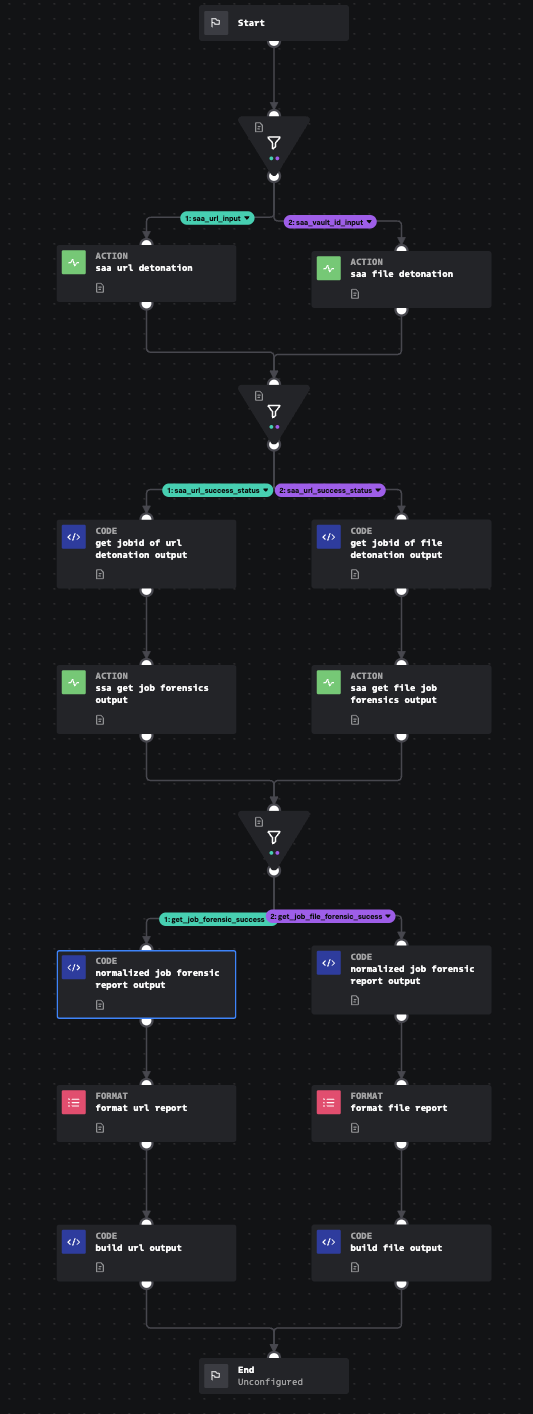
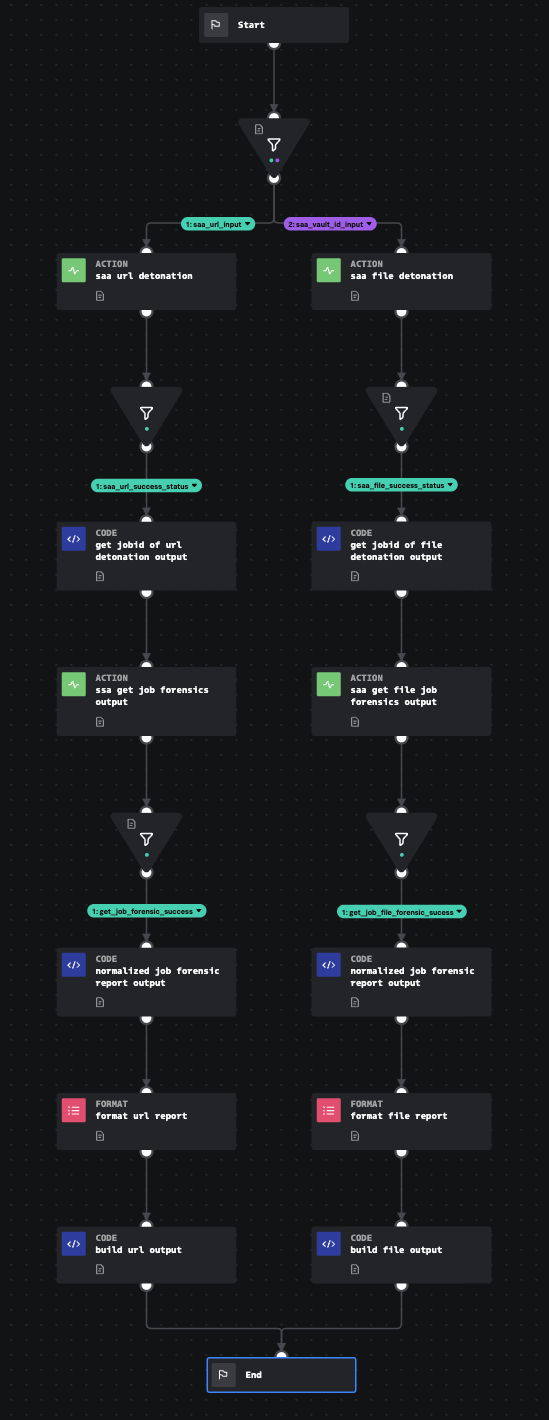
saa_dynamic_analysis_playbooks

Changed region(s): [[0.0901, 0.0311, 0.8405, 0.9335], [0.3602, 0.9335, 0.6604, 0.9958], [0.3602, 0.0, 0.4803, 0.0311]]

diff --git a/playbooks/SAA_Dynamic_Analysis.py b/playbooks/SAA_Dynamic_Analysis.py
@@ -83,18 +83,7 @@ def saa_url_detonation(action=None, success=None, container=None, results=None, 
     ## Custom Code End
     ################################################################################
 
-    phantom.act("detonate url", parameters=parameters, name="saa_url_detonation", assets=["splunk attack analyzer"], callback=join_url_detonation_status_filter)
-
-    return
-
-
-@phantom.playbook_block()
-def join_url_detonation_status_filter(action=None, success=None, container=None, results=None, handle=None, filtered_artifacts=None, filtered_results=None, custom_function=None, **kwargs):
-    phantom.debug("join_url_detonation_status_filter() called")
-
-    if phantom.completed(action_names=["saa_url_detonation", "saa_file_detonation"]):
-        # call connected block "url_detonation_status_filter"
-        url_detonation_status_filter(container=container, handle=handle)
+    phantom.act("detonate url", parameters=parameters, name="saa_url_detonation", assets=["splunk attack analyzer"], callback=filter_5)
 
     return
 
@@ -111,25 +100,13 @@ def url_detonation_status_filter(action=None, success=None, container=None, resu
     matched_artifacts_1, matched_results_1 = phantom.condition(
         container=container,
         conditions=[
-            ["saa_url_detonation:action_result.status", "==", "success"]
+            ["saa_file_detonation:action_result.status", "==", "success"]
         ],
         name="url_detonation_status_filter:condition_1")
 
     # call connected blocks if filtered artifacts or results
     if matched_artifacts_1 or matched_results_1:
-        get_jobid_of_url_detonation_output(action=action, success=success, container=container, results=results, handle=handle, filtered_artifacts=matched_artifacts_1, filtered_results=matched_results_1)
-
-    # collect filtered artifact ids and results for 'if' condition 2
-    matched_artifacts_2, matched_results_2 = phantom.condition(
-        container=container,
-        conditions=[
-            ["saa_file_detonation:action_result.status", "==", "success"]
-        ],
-        name="url_detonation_status_filter:condition_2")
-
-    # call connected blocks if filtered artifacts or results
-    if matched_artifacts_2 or matched_results_2:
-        get_jobid_of_file_detonation_output(action=action, success=success, container=container, results=results, handle=handle, filtered_artifacts=matched_artifacts_2, filtered_results=matched_results_2)
+        get_jobid_of_file_detonation_output(action=action, success=success, container=container, results=results, handle=handle, filtered_artifacts=matched_artifacts_1, filtered_results=matched_results_1)
 
     return
 
@@ -207,18 +184,7 @@ def ssa_get_job_forensics_output(action=None, success=None, container=None, resu
     ## Custom Code End
     ################################################################################
 
-    phantom.act("get job forensics", parameters=parameters, name="ssa_get_job_forensics_output", assets=["splunk attack analyzer"], callback=join_get_jobid_forensic_filter)
-
-    return
-
-
-@phantom.playbook_block()
-def join_get_jobid_forensic_filter(action=None, success=None, container=None, results=None, handle=None, filtered_artifacts=None, filtered_results=None, custom_function=None, **kwargs):
-    phantom.debug("join_get_jobid_forensic_filter() called")
-
-    if phantom.completed(action_names=["ssa_get_job_forensics_output", "saa_get_file_job_forensics_output"]):
-        # call connected block "get_jobid_forensic_filter"
-        get_jobid_forensic_filter(container=container, handle=handle)
+    phantom.act("get job forensics", parameters=parameters, name="ssa_get_job_forensics_output", assets=["splunk attack analyzer"], callback=get_jobid_forensic_filter)
 
     return
 
@@ -242,18 +208,6 @@ def get_jobid_forensic_filter(action=None, success=None, container=None, results
     # call connected blocks if filtered artifacts or results
     if matched_artifacts_1 or matched_results_1:
         normalized_job_forensic_report_output(action=action, success=success, container=container, results=results, handle=handle, filtered_artifacts=matched_artifacts_1, filtered_results=matched_results_1)
-
-    # collect filtered artifact ids and results for 'if' condition 2
-    matched_artifacts_2, matched_results_2 = phantom.condition(
-        container=container,
-        conditions=[
-            ["saa_get_file_job_forensics_output:action_result.status", "==", "success"]
-        ],
-        name="get_jobid_forensic_filter:condition_2")
-
-    # call connected blocks if filtered artifacts or results
-    if matched_artifacts_2 or matched_results_2:
-        normalized_job_forensic_report_output_1(action=action, success=success, container=container, results=results, handle=handle, filtered_artifacts=matched_artifacts_2, filtered_results=matched_results_2)
 
     return
 
@@ -421,7 +375,7 @@ def format_url_report(action=None, success=None, container=None, results=None, h
     ################################################################################
 
     # Write your custom code here...
-    #phantom.debug(phantom.format(container=container, template=template, parameters=parameters, name="format_report_url"))
+    phantom.debug(phantom.format(container=container, template=template, parameters=parameters, name="format_report_url"))
     ################################################################################
     ## Custom Code End
     ################################################################################
@@ -530,7 +484,7 @@ def saa_file_detonation(action=None, success=None, container=None, results=None,
     ## Custom Code End
     ################################################################################
 
-    phantom.act("detonate file", parameters=parameters, name="saa_file_detonation", assets=["splunk attack analyzer"], callback=join_url_detonation_status_filter)
+    phantom.act("detonate file", parameters=parameters, name="saa_file_detonation", assets=["splunk attack analyzer"], callback=url_detonation_status_filter)
 
     return
 
@@ -608,7 +562,7 @@ def saa_get_file_job_forensics_output(action=None, success=None, container=None,
     ## Custom Code End
     ################################################################################
 
-    phantom.act("get job forensics", parameters=parameters, name="saa_get_file_job_forensics_output", assets=["splunk attack analyzer"], callback=join_get_jobid_forensic_filter)
+    phantom.act("get job forensics", parameters=parameters, name="saa_get_file_job_forensics_output", assets=["splunk attack analyzer"], callback=filter_6)
 
     return
 
@@ -776,7 +730,7 @@ def format_file_report(action=None, success=None, container=None, results=None, 
     ################################################################################
 
     # Write your custom code here...
-    #phantom.debug(phantom.format(container=container, template=template, parameters=parameters, name="format_report_file"))
+    phantom.debug(phantom.format(container=container, template=template, parameters=parameters, name="format_report_file"))
     ################################################################################
     ## Custom Code End
     ################################################################################
@@ -839,6 +793,44 @@ def build_file_output(action=None, success=None, container=None, results=None, h
     ################################################################################
 
     phantom.save_run_data(key="build_file_output:observable_array", value=json.dumps(build_file_output__observable_array))
+
+    return
+
+
+@phantom.playbook_block()
+def filter_5(action=None, success=None, container=None, results=None, handle=None, filtered_artifacts=None, filtered_results=None, custom_function=None, **kwargs):
+    phantom.debug("filter_5() called")
+
+    # collect filtered artifact ids and results for 'if' condition 1
+    matched_artifacts_1, matched_results_1 = phantom.condition(
+        container=container,
+        conditions=[
+            ["saa_url_detonation:action_result.status", "==", "success"]
+        ],
+        name="filter_5:condition_1")
+
+    # call connected blocks if filtered artifacts or results
+    if matched_artifacts_1 or matched_results_1:
+        get_jobid_of_url_detonation_output(action=action, success=success, container=container, results=results, handle=handle, filtered_artifacts=matched_artifacts_1, filtered_results=matched_results_1)
+
+    return
+
+
+@phantom.playbook_block()
+def filter_6(action=None, success=None, container=None, results=None, handle=None, filtered_artifacts=None, filtered_results=None, custom_function=None, **kwargs):
+    phantom.debug("filter_6() called")
+
+    # collect filtered artifact ids and results for 'if' condition 1
+    matched_artifacts_1, matched_results_1 = phantom.condition(
+        container=container,
+        conditions=[
+            ["saa_get_file_job_forensics_output:action_result.status", "==", "success"]
+        ],
+        name="filter_6:condition_1")
+
+    # call connected blocks if filtered artifacts or results
+    if matched_artifacts_1 or matched_results_1:
+        normalized_job_forensic_report_output_1(action=action, success=success, container=container, results=results, handle=handle, filtered_artifacts=matched_artifacts_1, filtered_results=matched_results_1)
 
     return
 
